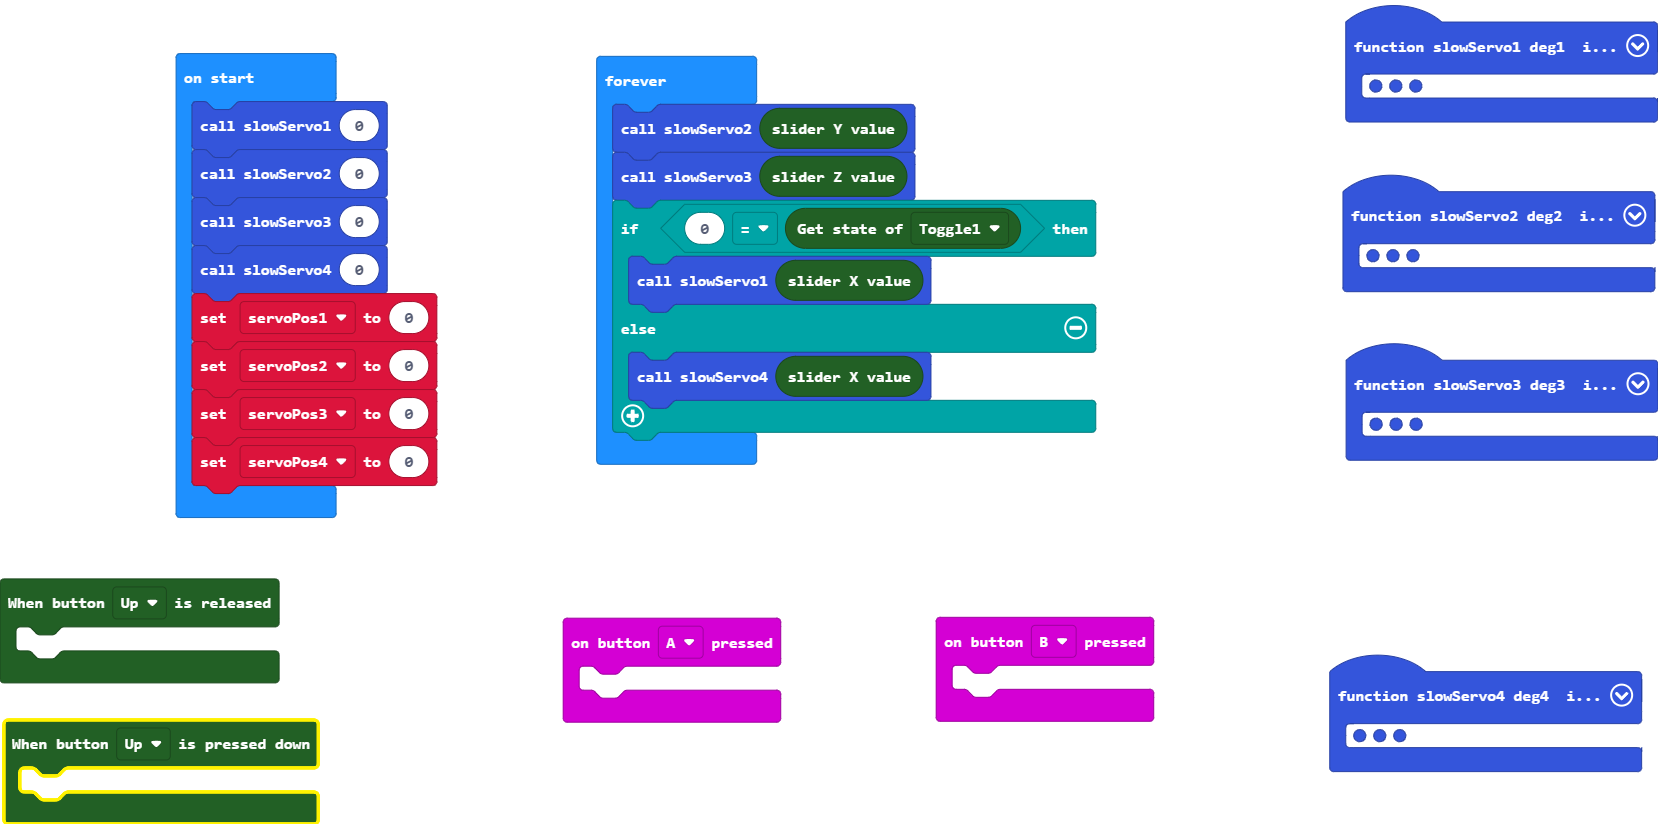
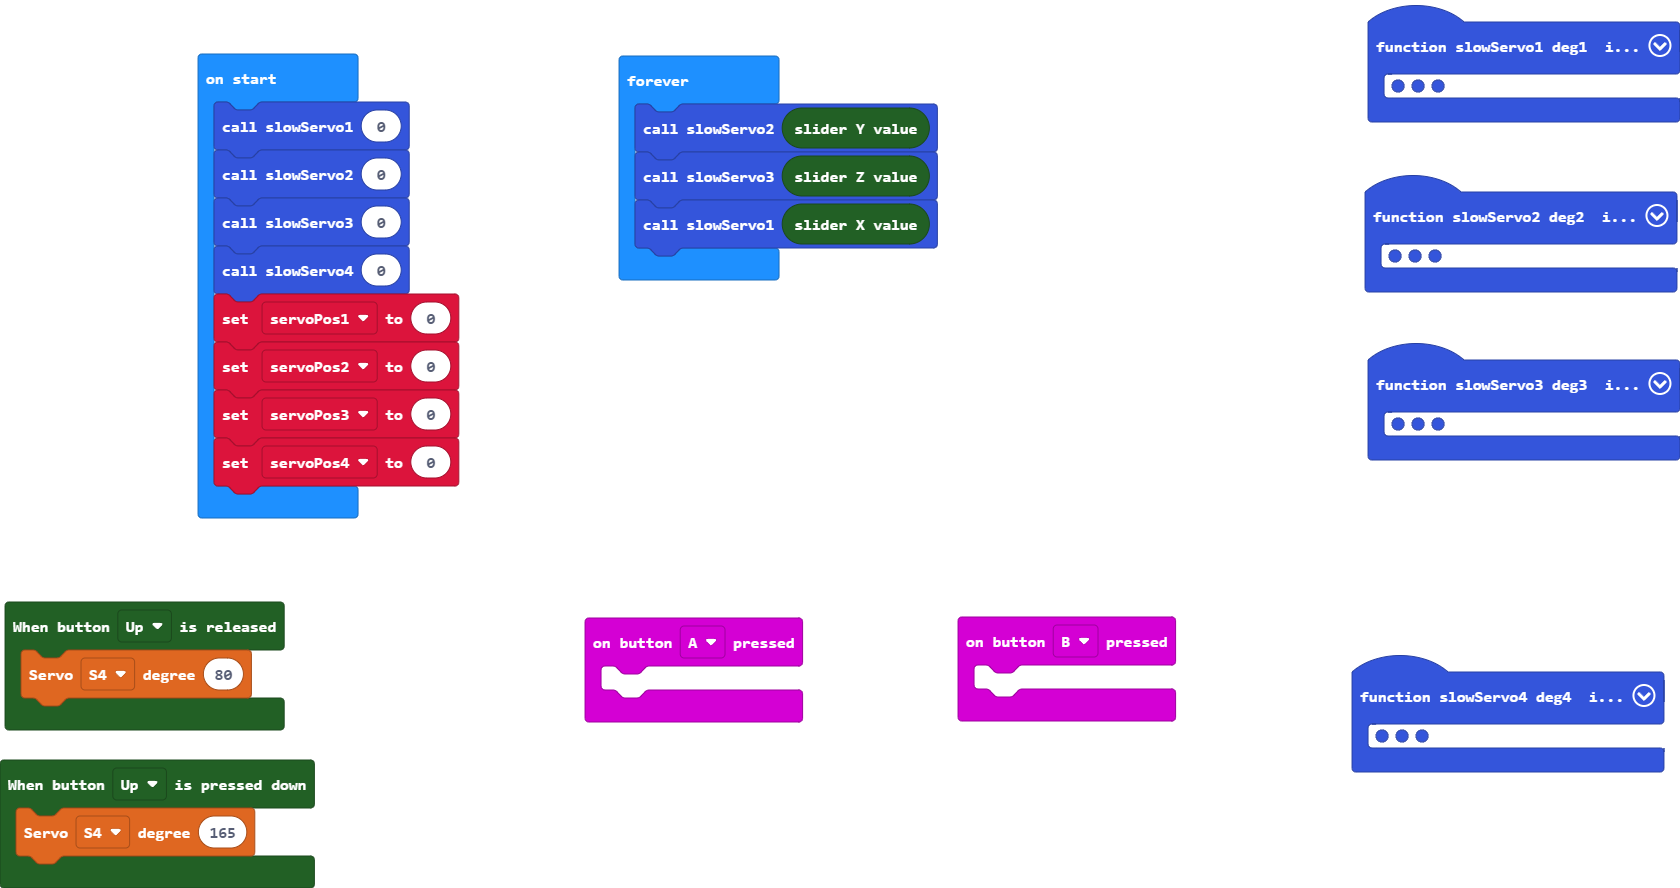
Update main.blocks, main.ts

diff --git a/main.ts b/main.ts
@@ -2,11 +2,11 @@ function slowServo3 (deg3: number) {
     if (deg3 > servoPos3) {
         servoPos3 += 1
         motor.servo(motor.Servos.S3, servoPos3)
-        basic.pause(20)
+        basic.pause(5)
     } else if (deg3 < servoPos3) {
         servoPos3 += -1
         motor.servo(motor.Servos.S3, servoPos3)
-        basic.pause(20)
+        basic.pause(5)
     } else {
     	
     }
@@ -41,10 +41,10 @@ function slowServo4 (deg4: number) {
     }
 }
 microbitApp.onButtonUpOption(ButtonOption.Up, function () {
-	
+    motor.servo(motor.Servos.S4, 80)
 })
 microbitApp.onButtonOption(ButtonOption.Up, function () {
-	
+    motor.servo(motor.Servos.S4, 165)
 })
 input.onButtonPressed(Button.B, function () {
 	
@@ -53,11 +53,11 @@ function slowServo2 (deg2: number) {
     if (deg2 > servoPos2) {
         servoPos2 += 1
         motor.servo(motor.Servos.S2, servoPos2)
-        basic.pause(20)
+        basic.pause(5)
     } else if (deg2 < servoPos2) {
         servoPos2 += -1
         motor.servo(motor.Servos.S2, servoPos2)
-        basic.pause(20)
+        basic.pause(5)
     } else {
     	
     }
@@ -77,9 +77,5 @@ servoPos4 = 0
 basic.forever(function () {
     slowServo2(microbitApp.getSliderY())
     slowServo3(microbitApp.getSliderZ())
-    if (0 == microbitApp.getToggleState(ToggleOption.Toggle1)) {
-        slowServo1(microbitApp.getSliderX())
-    } else {
-        slowServo4(microbitApp.getSliderX())
-    }
+    slowServo1(microbitApp.getSliderX())
 })
